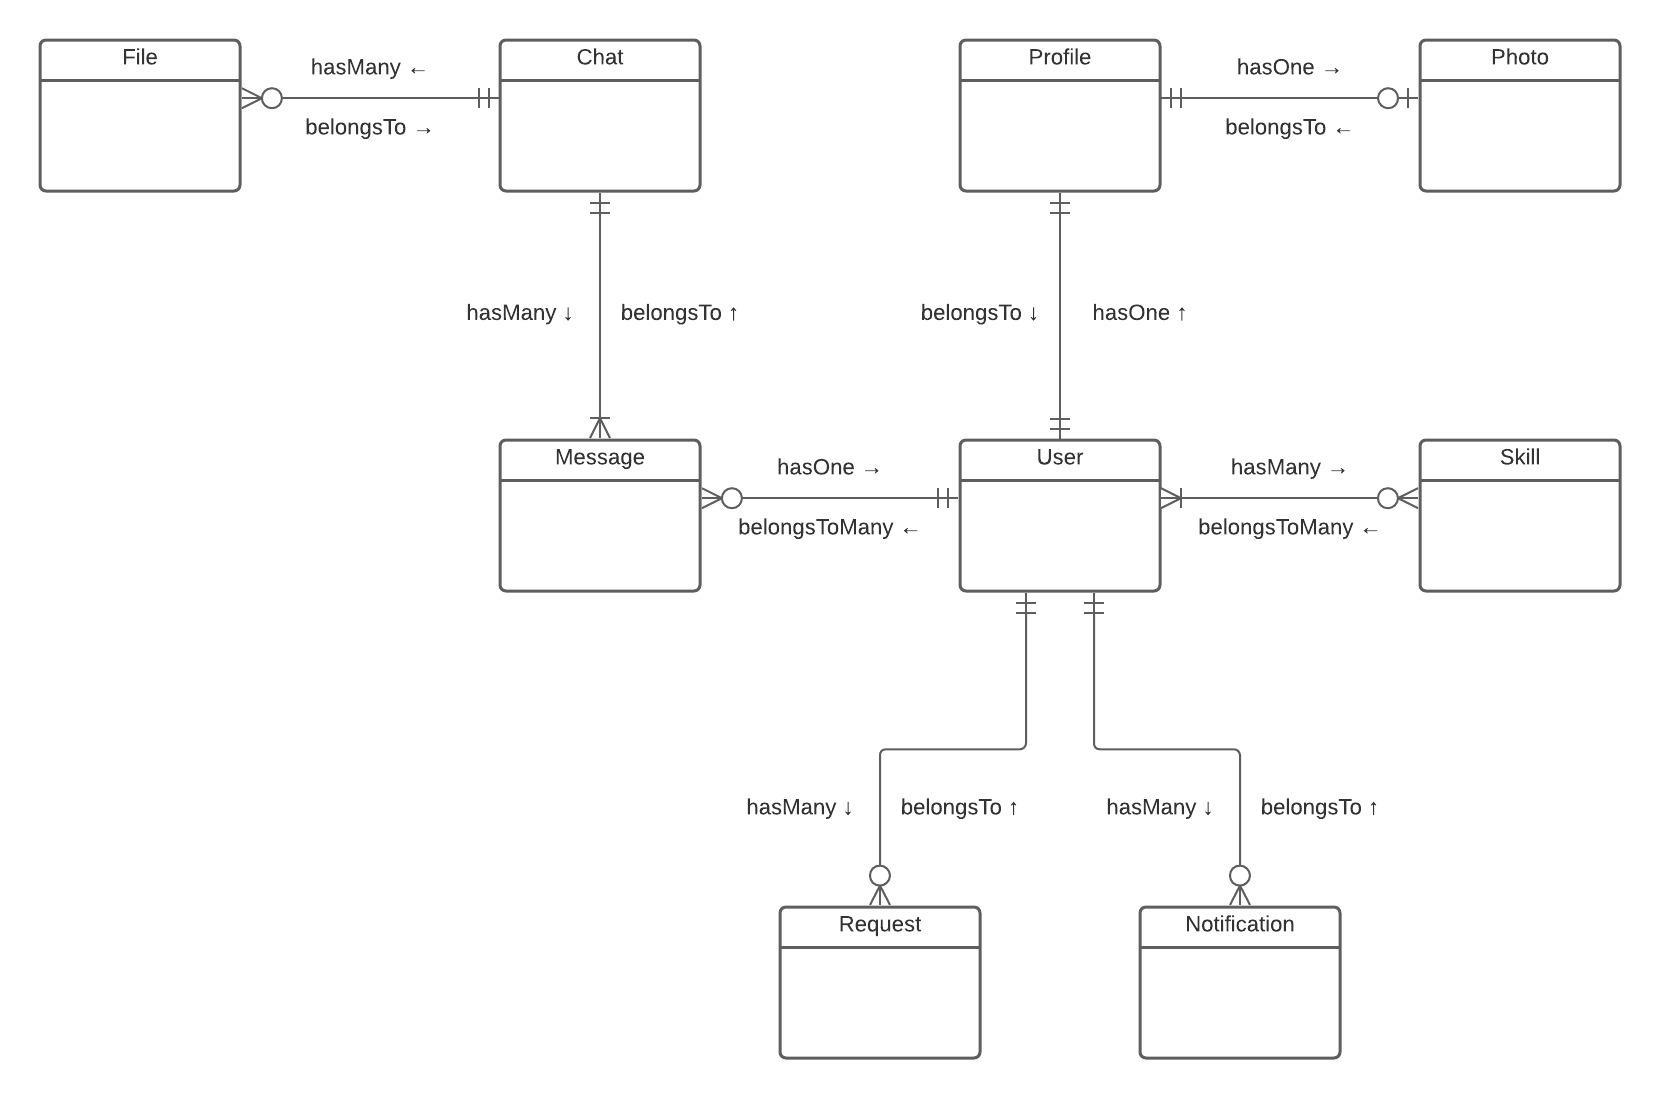
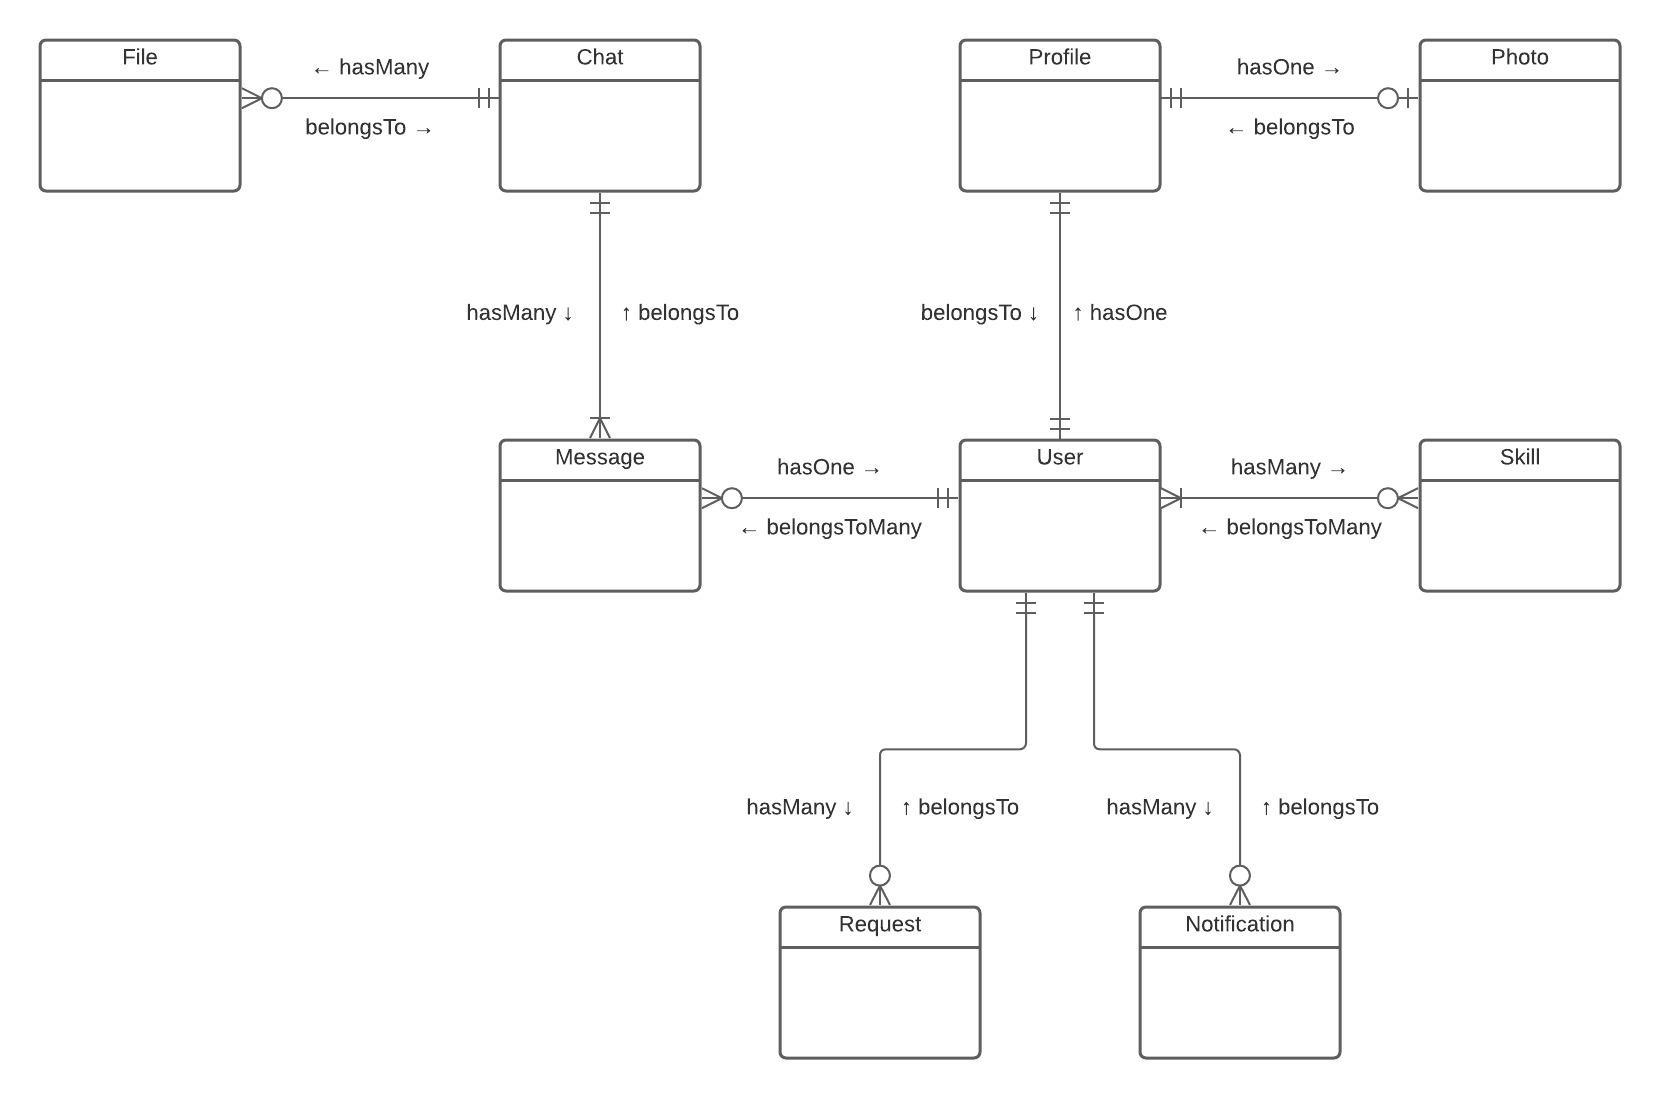
Update ERD indicators

diff --git a/src/docs/ERD.md b/src/docs/ERD.md
@@ -2,6 +2,6 @@
 
 ![Diagram](./images/ERD.jpeg)
 
-[Edit the diagram](https://lucid.app/lucidspark/1cde8d89-6984-41ec-8276-aaa035333e14/edit#)
+[Edit the diagram](https://lucid.app/lucidspark/61354069-6a72-4c12-954d-7f3fa40327e5/edit#)
 
 The ERD describes the database structure and relations between tables (models). It's built using both Crow's Foot Notation and Sequelize method names to make it easier to understand it in the code context.
